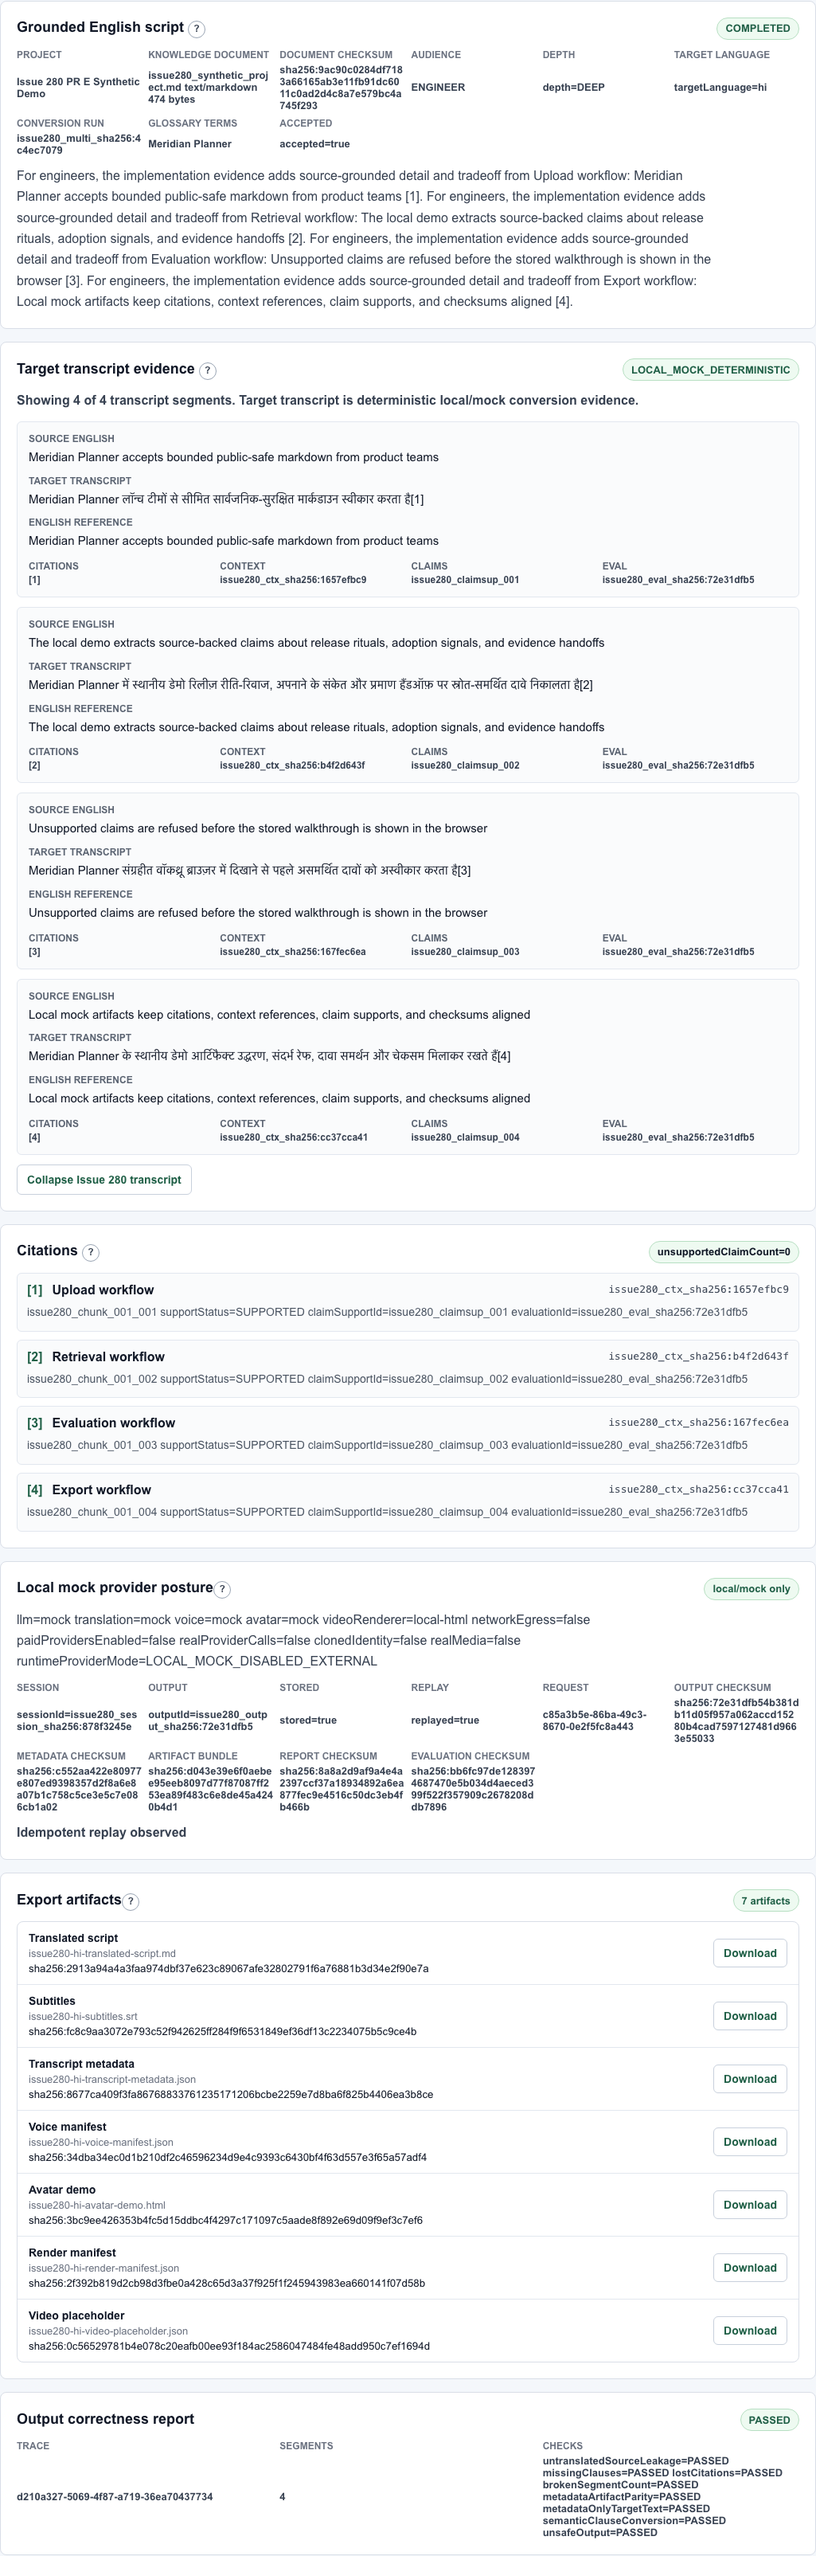
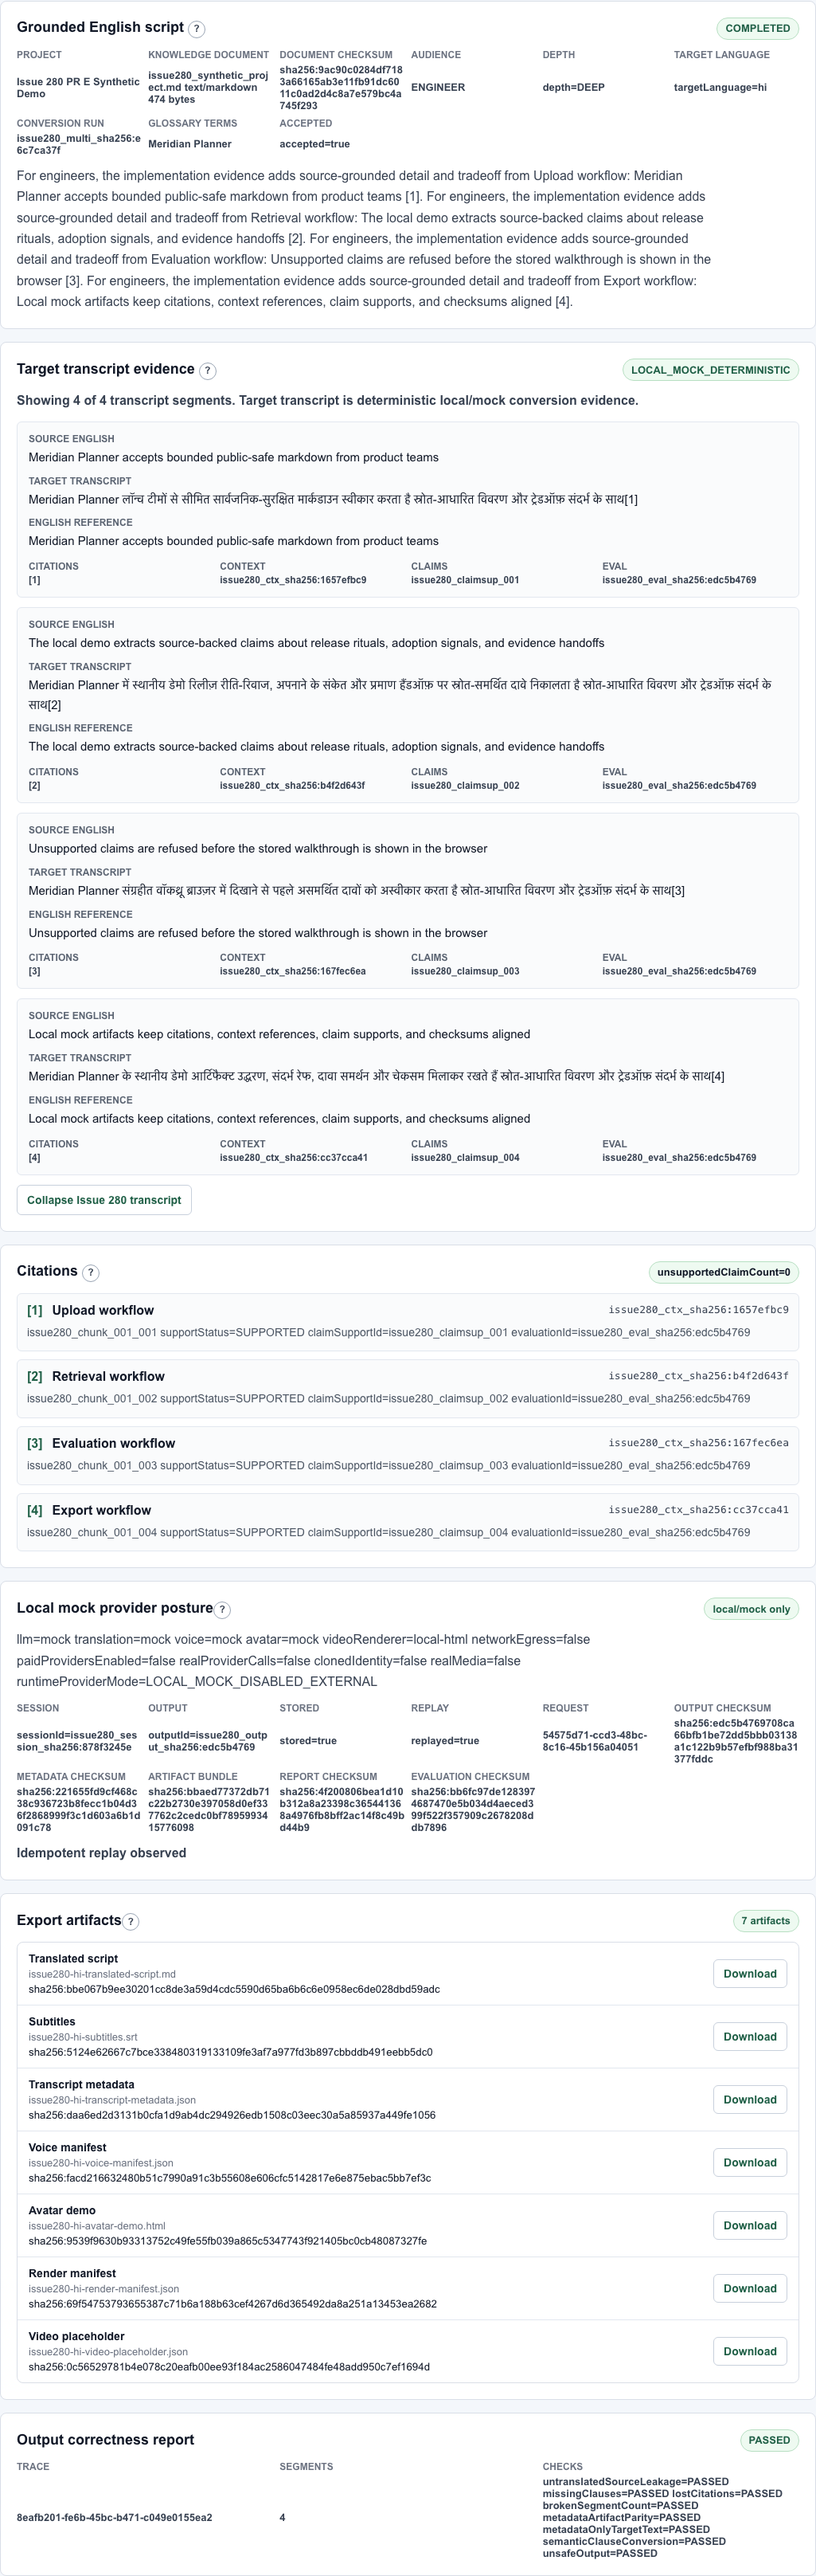
test: enforce visible issue280 depth behavior

diff --git a/frontend/tests/issue280-ui-browser.spec.ts b/frontend/tests/issue280-ui-browser.spec.ts
@@ -132,9 +132,10 @@ test.describe("Issue 280 PR E UI/browser output correctness verifier", () => {
       await expect(page.getByText("COMPLETED")).toBeVisible();
       await expect(page.getByText(`targetLanguage=${expectation.tag}`)).toBeVisible();
       await expect(page.getByLabel("Issue 280 output evidence").getByText(expectation.marker).first()).toBeVisible();
-      await expect(page.getByText("implementation evidence")).toBeVisible();
-      await expect(page.getByText("source-grounded detail")).toBeVisible();
-      await expect(page.getByText("tradeoff")).toBeVisible();
+      const groundedScriptSection = page.locator('section[aria-labelledby="issue280-script-title"]');
+      await expect(groundedScriptSection.getByText("implementation evidence")).toBeVisible();
+      await expect(groundedScriptSection.getByText("source-grounded detail")).toBeVisible();
+      await expect(groundedScriptSection.getByText("tradeoff")).toBeVisible();
       await expect(page.getByText("unsupportedClaimCount=0")).toBeVisible();
       await expect(page.getByText("artifactBundleChecksum", { exact: false })).toHaveCount(0);
       await expect(page.getByText("Artifact bundle")).toBeVisible();
@@ -249,6 +250,29 @@ test.describe("Issue 280 PR E UI/browser output correctness verifier", () => {
         screenshot: "reports/checkpoint3-issue280/issue280-pr-e-desktop-output-evidence.png",
       },
     });
+    await assertNoLeakage(page);
+  });
+
+  test("verifies browser-visible target transcript changes by selected depth", async ({ page }, testInfo) => {
+    test.skip(testInfo.project.name !== "issue280-desktop", "desktop-only depth verifier");
+    const visibleTranscriptByDepth: Record<string, string> = {};
+
+    for (const depth of ["CONCISE", "STANDARD", "DEEP"] as const) {
+      await fillIssue280Form(page, { targetLanguage: "es", depth, audience: "ENGINEER" });
+      await page.getByRole("button", { name: "Run Issue 280 local demo" }).click();
+      await expect(page.getByText("COMPLETED")).toBeVisible();
+      await expect(page.getByText(`depth=${depth}`)).toBeVisible();
+      visibleTranscriptByDepth[depth] = await page.getByLabel("Issue 280 validated transcript").innerText();
+    }
+
+    expect(visibleTranscriptByDepth.CONCISE).not.toEqual(visibleTranscriptByDepth.STANDARD);
+    expect(visibleTranscriptByDepth.STANDARD).not.toEqual(visibleTranscriptByDepth.DEEP);
+    expect(visibleTranscriptByDepth.CONCISE.length).toBeLessThan(visibleTranscriptByDepth.STANDARD.length);
+    expect(visibleTranscriptByDepth.STANDARD.length).toBeLessThan(visibleTranscriptByDepth.DEEP.length);
+    expect(visibleTranscriptByDepth.STANDARD).toContain("contexto equilibrado");
+    expect(visibleTranscriptByDepth.DEEP).toContain("detalle basado en la fuente");
+    expect(visibleTranscriptByDepth.CONCISE).not.toContain("detalle basado en la fuente");
+    await assertNoHorizontalOverflow(page);
     await assertNoLeakage(page);
   });
 

diff --git a/backend/app/issue280.py b/backend/app/issue280.py
@@ -278,6 +278,108 @@ _METADATA_ONLY_TARGET_MARKERS = (
     "המרת מוק מקומית",
     "מקטע מקור",
 )
+_LOCAL_DEPTH_CONTEXT = {
+    "en": {
+        "STANDARD": " with balanced context",
+        "DEEP": " with source-grounded detail and tradeoff context",
+    },
+    "hi": {
+        "STANDARD": " संतुलित संदर्भ के साथ",
+        "DEEP": " स्रोत-आधारित विवरण और ट्रेडऑफ़ संदर्भ के साथ",
+    },
+    "es": {
+        "STANDARD": " con contexto equilibrado",
+        "DEEP": " con detalle basado en la fuente y contexto de compensaciones",
+    },
+    "de": {
+        "STANDARD": " mit ausgewogenem Kontext",
+        "DEEP": " mit quellengestuetztem Detail und Abwaegungskontext",
+    },
+    "fr": {
+        "STANDARD": " avec un contexte equilibre",
+        "DEEP": " avec des details appuyes par la source et un contexte de compromis",
+    },
+    "pt-BR": {
+        "STANDARD": " com contexto equilibrado",
+        "DEEP": " com detalhe baseado em fonte e contexto de tradeoff",
+    },
+    "it": {
+        "STANDARD": " con contesto bilanciato",
+        "DEEP": " con dettaglio fondato sulla fonte e contesto di compromesso",
+    },
+    "nl": {
+        "STANDARD": " met gebalanceerde context",
+        "DEEP": " met brononderbouwd detail en afwegingscontext",
+    },
+    "pl": {
+        "STANDARD": " ze zrownowazonym kontekstem",
+        "DEEP": " ze szczegolem opartym na zrodle i kontekstem kompromisu",
+    },
+    "uk": {
+        "STANDARD": " зі збалансованим контекстом",
+        "DEEP": " з деталями на основі джерела та контекстом компромісів",
+    },
+    "ru": {
+        "STANDARD": " со сбалансированным контекстом",
+        "DEEP": " с деталями на основе источника и контекстом компромиссов",
+    },
+    "zh-Hans": {
+        "STANDARD": "，并提供均衡上下文",
+        "DEEP": "，并提供来源支撑细节和权衡上下文",
+    },
+    "zh-Hant": {
+        "STANDARD": "，並提供均衡情境",
+        "DEEP": "，並提供來源支撐細節和取捨情境",
+    },
+    "ja": {
+        "STANDARD": "、バランスの取れた文脈付きで",
+        "DEEP": "、ソース根拠の詳細とトレードオフ文脈付きで",
+    },
+    "ko": {
+        "STANDARD": " 균형 잡힌 맥락과 함께",
+        "DEEP": " 출처 기반 세부사항과 절충 맥락과 함께",
+    },
+    "ar": {
+        "STANDARD": " مع سياق متوازن",
+        "DEEP": " مع تفاصيل مدعومة بالمصدر وسياق للمفاضلات",
+    },
+    "arz": {
+        "STANDARD": " مع سياق متوازن",
+        "DEEP": " مع تفاصيل مسنودة بمصدر وسياق للمفاضلات",
+    },
+    "he": {
+        "STANDARD": " עם הקשר מאוזן",
+        "DEEP": " עם פירוט מגובה מקור והקשר של פשרות",
+    },
+    "fa": {
+        "STANDARD": " با زمینه متوازن",
+        "DEEP": " با جزئیات پشتیبانیشده با منبع و زمینه مصالحهها",
+    },
+    "tr": {
+        "STANDARD": " dengeli baglamla",
+        "DEEP": " kaynak destekli ayrinti ve takas baglamiyla",
+    },
+    "vi": {
+        "STANDARD": " voi ngu canh can bang",
+        "DEEP": " voi chi tiet dua tren nguon va ngu canh danh doi",
+    },
+    "id": {
+        "STANDARD": " dengan konteks seimbang",
+        "DEEP": " dengan detail berbasis sumber dan konteks tradeoff",
+    },
+    "fil": {
+        "STANDARD": " na may balanseng konteksto",
+        "DEEP": " na may detalyeng suportado ng source at konteksto ng tradeoff",
+    },
+    "th": {
+        "STANDARD": " พร้อมบริบทที่สมดุล",
+        "DEEP": " พร้อมรายละเอียดจากแหล่งอ้างอิงและบริบทของการแลกเปลี่ยน",
+    },
+    "ms": {
+        "STANDARD": " dengan konteks seimbang",
+        "DEEP": " dengan perincian bersumber dan konteks pertukaran",
+    },
+}
 
 
 @dataclass(frozen=True)
@@ -701,6 +803,7 @@ class Issue280LocalDemoService:
             target_language=target_language,
             target_record=target_record,
             glossary_terms=request.glossary_terms,
+            depth=request.depth,
         )
         evaluation_checksum = _evaluation_checksum(claim_supports)
         output_checksum = checksum_text(
@@ -947,6 +1050,7 @@ def _build_multilingual_response(
     target_language: str,
     target_record: LanguageCatalogRecord,
     glossary_terms: list[str],
+    depth: str,
 ) -> Issue280LocalDemoMultilingualResponse:
     facts_by_citation = {fact.citation_index: fact for fact in facts}
     segments: list[Issue280LocalDemoTranscriptSegmentResponse] = []
@@ -960,6 +1064,7 @@ def _build_multilingual_response(
                     fact=fact,
                     target_record=target_record,
                     glossary_terms=glossary_terms,
+                    depth=depth,
                 ),
                 englishReferenceText=fact.fact_text,
                 contextRefIds=[fact.context_ref_id],
@@ -976,6 +1081,7 @@ def _build_multilingual_response(
             json.dumps(
                 {
                     "targetLanguage": target_language,
+                    "depth": depth,
                     "glossaryTerms": glossary_terms,
                     "segments": [segment.segment_id for segment in segments],
                 },
@@ -992,6 +1098,7 @@ def _translate_fact(
     fact: Issue280GroundedFact,
     target_record: LanguageCatalogRecord,
     glossary_terms: list[str],
+    depth: str,
 ) -> str:
     citation = f"[{fact.citation_index}]"
     preserved_terms = _preserved_glossary_terms(glossary_terms)
@@ -1004,6 +1111,12 @@ def _translate_fact(
         if language_templates is None:
             raise Issue280ContractError("ISSUE280_TRANSLATION_REFUSED", "targetLanguage")
         target_text = language_templates[semantic_key].format(term=term, citation=citation)
+    target_text = _apply_depth_context(
+        target_text=target_text,
+        target_language=target_record.language_tag,
+        depth=depth,
+        citation=citation,
+    )
     _assert_semantic_target_text(
         source_text=fact.fact_text,
         target_text=target_text,
@@ -1011,6 +1124,17 @@ def _translate_fact(
         citation=citation,
     )
     return target_text
+
+
+def _apply_depth_context(*, target_text: str, target_language: str, depth: str, citation: str) -> str:
+    if depth == "CONCISE":
+        return target_text
+    depth_context = _LOCAL_DEPTH_CONTEXT.get(target_language, {}).get(depth)
+    if depth_context is None:
+        raise Issue280ContractError("ISSUE280_TRANSLATION_REFUSED", "depth")
+    if citation not in target_text:
+        raise Issue280ContractError("ISSUE280_TRANSLATION_REFUSED", "targetText")
+    return target_text.replace(citation, f"{depth_context}{citation}", 1)
 
 
 def _semantic_clause_key(fact_text: str) -> str:

diff --git a/tests/acceptance/test_issue280_pr_e_closure.py b/tests/acceptance/test_issue280_pr_e_closure.py
@@ -200,6 +200,15 @@ def test_issue280_pr_e_depth_changes_output_materially_without_losing_evidence()
     assert len(concise_text.split()) < len(standard_text.split()) < len(deep_text.split())
     assert "source-grounded detail" in deep_text
     assert "tradeoff" in deep_text
+    concise_target_text = "\n".join(segment["targetText"] for segment in concise["multilingual"]["segments"])
+    standard_target_text = "\n".join(segment["targetText"] for segment in standard["multilingual"]["segments"])
+    deep_target_text = "\n".join(segment["targetText"] for segment in deep["multilingual"]["segments"])
+    assert concise_target_text != standard_target_text
+    assert standard_target_text != deep_target_text
+    assert len(concise_target_text) < len(standard_target_text) < len(deep_target_text)
+    assert "contexto equilibrado" in standard_target_text
+    assert "detalle basado en la fuente" in deep_target_text
+    assert "detalle basado en la fuente" not in concise_target_text
     for body in (concise, standard, deep):
         assert body["evaluation"]["unsupportedClaimCount"] == 0
         assert len(body["evaluation"]["claimSupports"]) == len(body["multilingual"]["segments"])

diff --git a/scripts/quality/verify_issue280_output_correctness.py b/scripts/quality/verify_issue280_output_correctness.py
@@ -85,7 +85,8 @@ def _write_report(*, started_at: datetime, results: list[dict[str, object]], sta
             "verifiedSemanticClauseConversion": True,
             "rejectedMetadataOnlyTargetText": True,
             "rejectedEnglishFallbackForNonEnglishTranscript": True,
-            "verifiedDepthAndAudienceDifferences": True,
+            "verifiedBrowserVisibleTargetTranscriptDepthDifferences": True,
+            "verifiedAudienceDifferencesInGroundedEnglishScript": True,
             "verifiedCitationContextClaimSupportEvaluationMetadata": True,
             "verifiedLocalMockProviderDisabledPosture": True,
             "verifiedLoadingSuccessRefusalValidationReplayUnsupportedLanguageStates": True,
